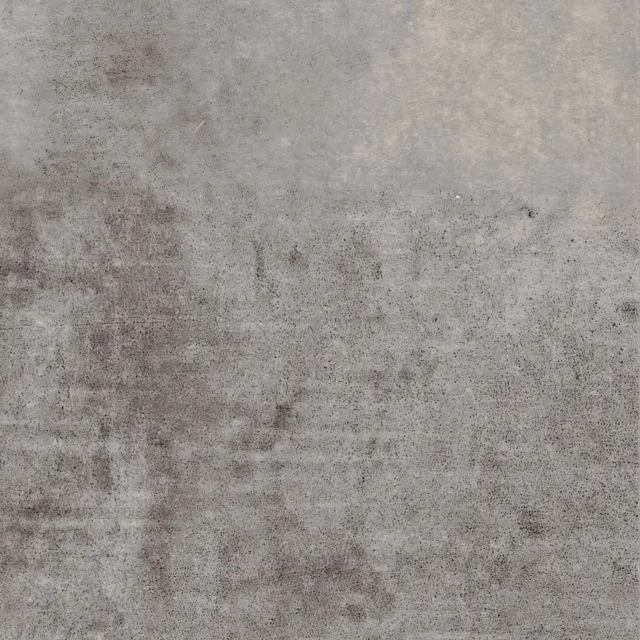
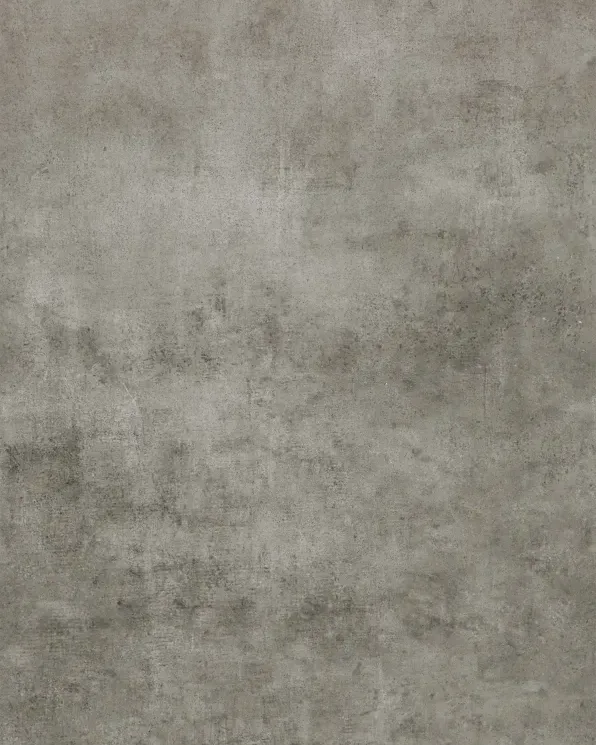
feat(wandverkleidung): real Keramico colour images from cleverbad.de
The Standard wall tiles showed scans from a supplier e-mail. They now use
the colour swatches from cleverbad.de (Badolux's shop), cropped to the
4:5 tile as webp; the old PNG scans are removed and the offline cache
list follows. Also fixes a radio tile keeping its highlight after
another one was picked (an unchecked radio fires no change event).

diff --git a/src/public/script.js b/src/public/script.js
@@ -6056,6 +6056,17 @@ function highlightTileForInput(input, on) {
   input?.closest("label.image-check")?.classList.toggle("is-checked", !!on);
 }
 
+// A radio that gets unchecked fires no change event, so a tile highlighted by
+// code (page default, restore) kept its border after another tile was picked
+// and two tiles looked selected. Re-sync the whole radio group instead.
+document.addEventListener("change", (e) => {
+  const t = e.target;
+  if (t?.type !== "radio" || !t.name || !t.closest?.("label.image-check")) return;
+  document
+    .querySelectorAll(`input[type="radio"][name="${CSS.escape(t.name)}"]`)
+    .forEach((r) => highlightTileForInput(r, r.checked));
+});
+
 // =================================================================
 // Budget Wandpaneele (Badolux) — Option A: extra group (additive)
 // Loads from backend: source=badolux + dimensions ~ 997/1497 × 2550
@@ -6109,8 +6120,8 @@ async function loadBudgetWandPanels() {
     __budgetWvCache = items.map((p) => ({
       productId: p.productId,
       name: p.name || p.productId,
-      // Convention for images (adjust if you store differently)
-      img: `./assets/budget/${p.productId}.png`,
+      // Colour swatches from cleverbad.de (Badolux's shop), cropped to the 4:5 tile.
+      img: `./assets/budget/${p.productId}.webp`,
     }));
     return __budgetWvCache;
   })();

diff --git a/src/public/sw.js b/src/public/sw.js
@@ -105,13 +105,13 @@ const PRECACHE = [
   "/assets/schiefer-grau-wv.png",
   "/assets/silikon_ransauer.jpg",
   "/assets/sonder.jpg",
-  "/assets/budget/WP001.png",
-  "/assets/budget/WP002.png",
-  "/assets/budget/WP003.png",
-  "/assets/budget/WP004.png",
-  "/assets/budget/WP005.png",
-  "/assets/budget/WP006.png",
-  "/assets/budget/WP007.png",
+  "/assets/budget/WP001.webp",
+  "/assets/budget/WP002.webp",
+  "/assets/budget/WP003.webp",
+  "/assets/budget/WP004.webp",
+  "/assets/budget/WP005.webp",
+  "/assets/budget/WP006.webp",
+  "/assets/budget/WP007.webp",
   "/assets/slate-color-weiss.jpg",
   "/assets/slate-color-elfenbein.jpg",
   "/assets/slate-color-steingrau.jpg",
